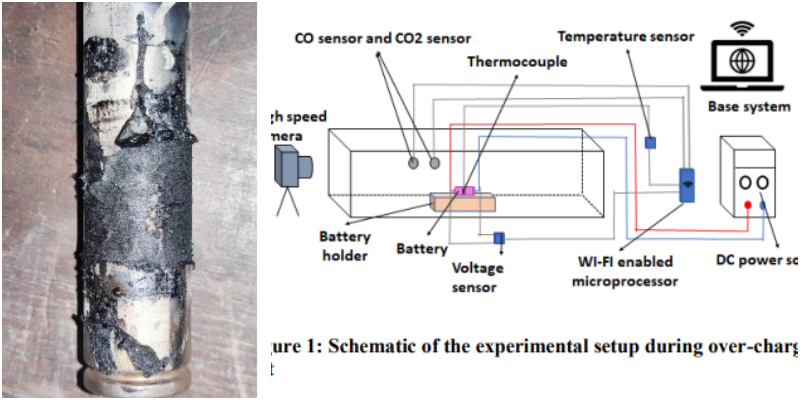
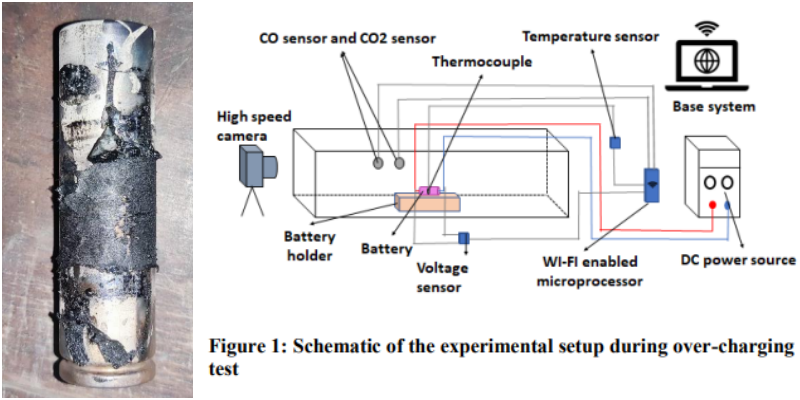
Add IIT Kanpur work

diff --git a/index.html b/index.html
@@ -89,7 +89,7 @@
       <h1 class="name">Subhadeep Koley</h1>
       <p>
         I'm a Computer Science PhD student at <a href="https://www.lehigh.edu/">Lehigh University</a>,
-        advised by <a href="https://www.saldanalab.com/">Prof. David Saldaña</a> in the Swarms Lab.
+        advised by <a href="https://engineering.lehigh.edu/faculty/david-saldana/">Prof. David Saldaña</a>.
       </p>
       <p>
         I am interested in how <strong>aerial robots</strong> can share information to navigate
@@ -176,10 +176,6 @@
         at <strong>IROS 2026</strong> in Pittsburgh.</td>
     </tr>
     <tr>
-      <td class="date">Sep 2026</td>
-      <td>Started exploring collaborative aerial navigation in turbulent flows.</td>
-    </tr>
-    <tr>
       <td class="date">May 2025</td>
       <td>Attended <strong>ICRA 2025</strong> in Atlanta and presented a live demonstration of
         <a href="https://ieeexplore.ieee.org/document/11127424"><strong>MochiSwarm</strong></a>,
@@ -202,6 +198,10 @@
     <tr>
       <td class="date">Aug 2023</td>
       <td>Won the <strong>Best Paper Award</strong> at IEEE SEFET for work on early detection of battery thermal runaway.</td>
+    </tr>
+    <tr>
+      <td class="date">May 2023</td>
+      <td>Started working on <a href="https://www.linkedin.com/posts/indian-institute-of-technology-kanpur_uav-dronetechnology-aerospace-activity-7135140765285896192-JqVH?utm_source=li_share&utm_content=feedcontent&utm_medium=g_dt_web&utm_campaign=copy">decentralized drone swarms</a> with <a href="https://home.iitk.ac.in/~ketan/">Dr. Ketan Rajawat</a> at IIT Kanpur. </td>
     </tr>
   </table>
 
